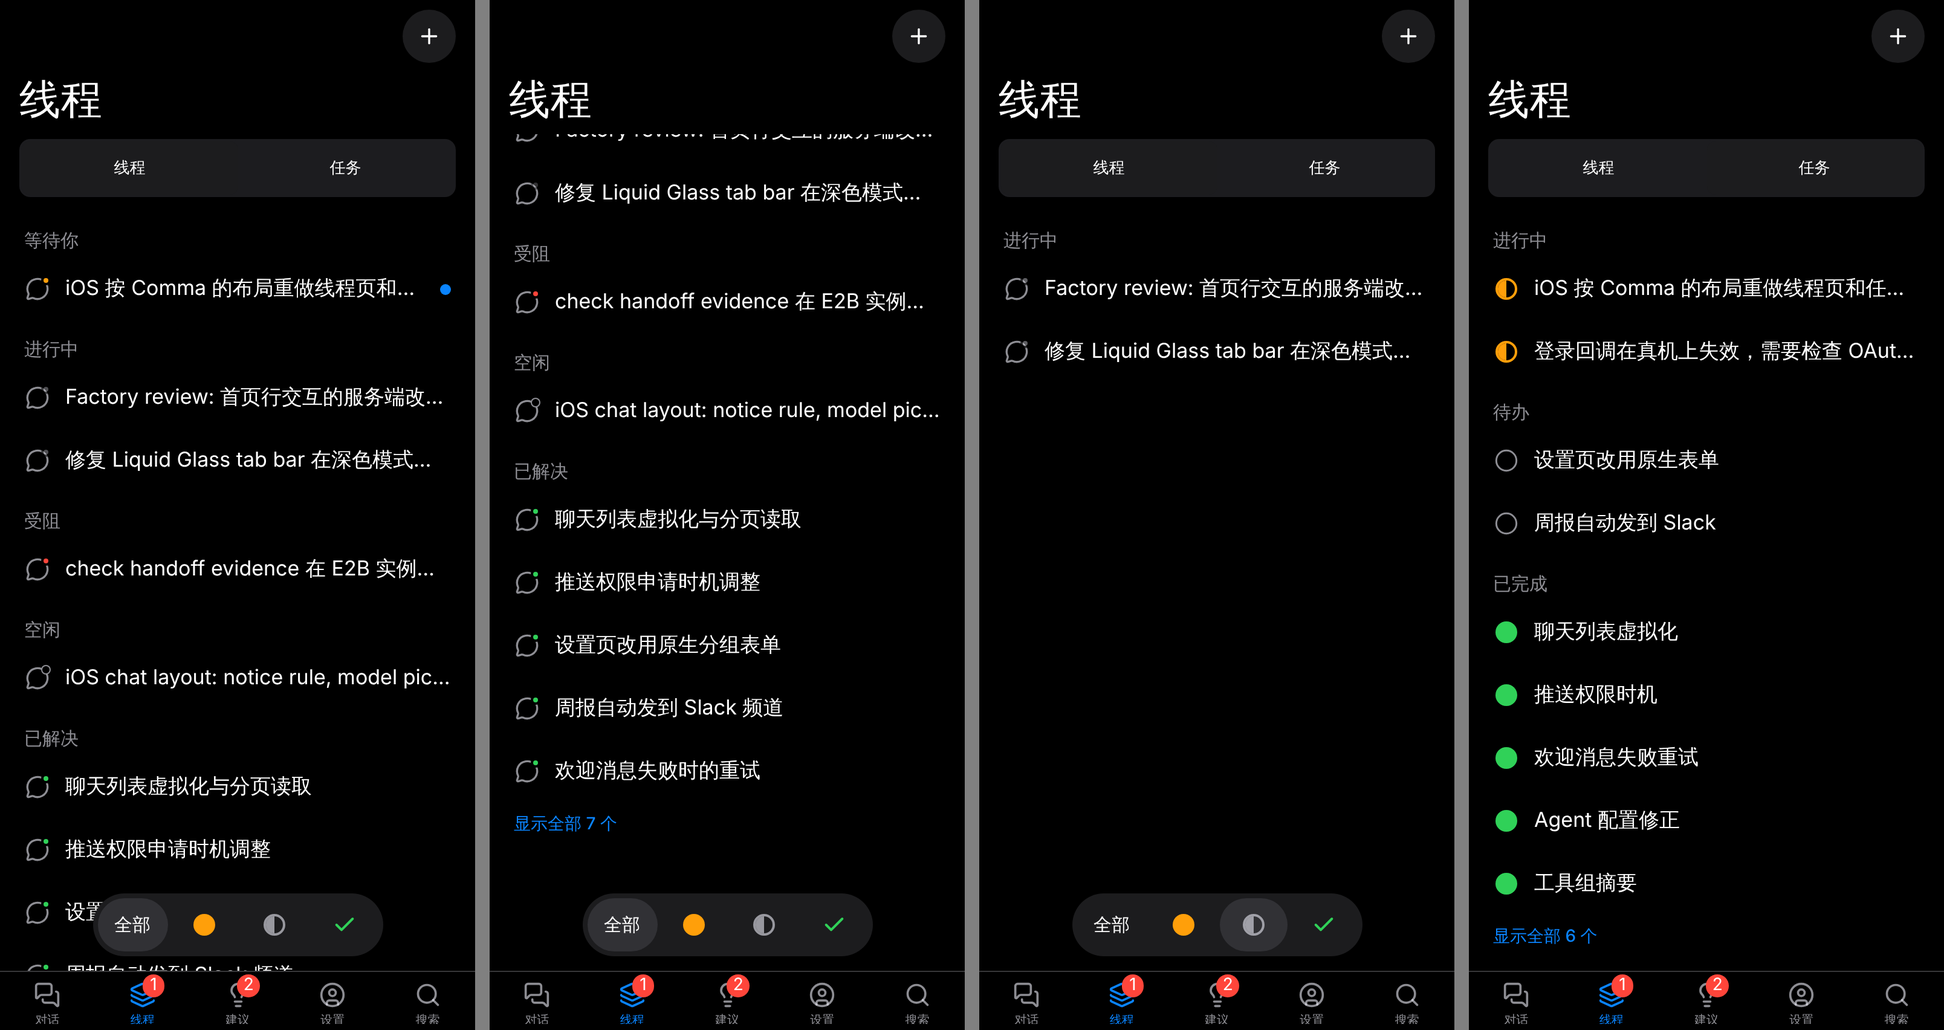
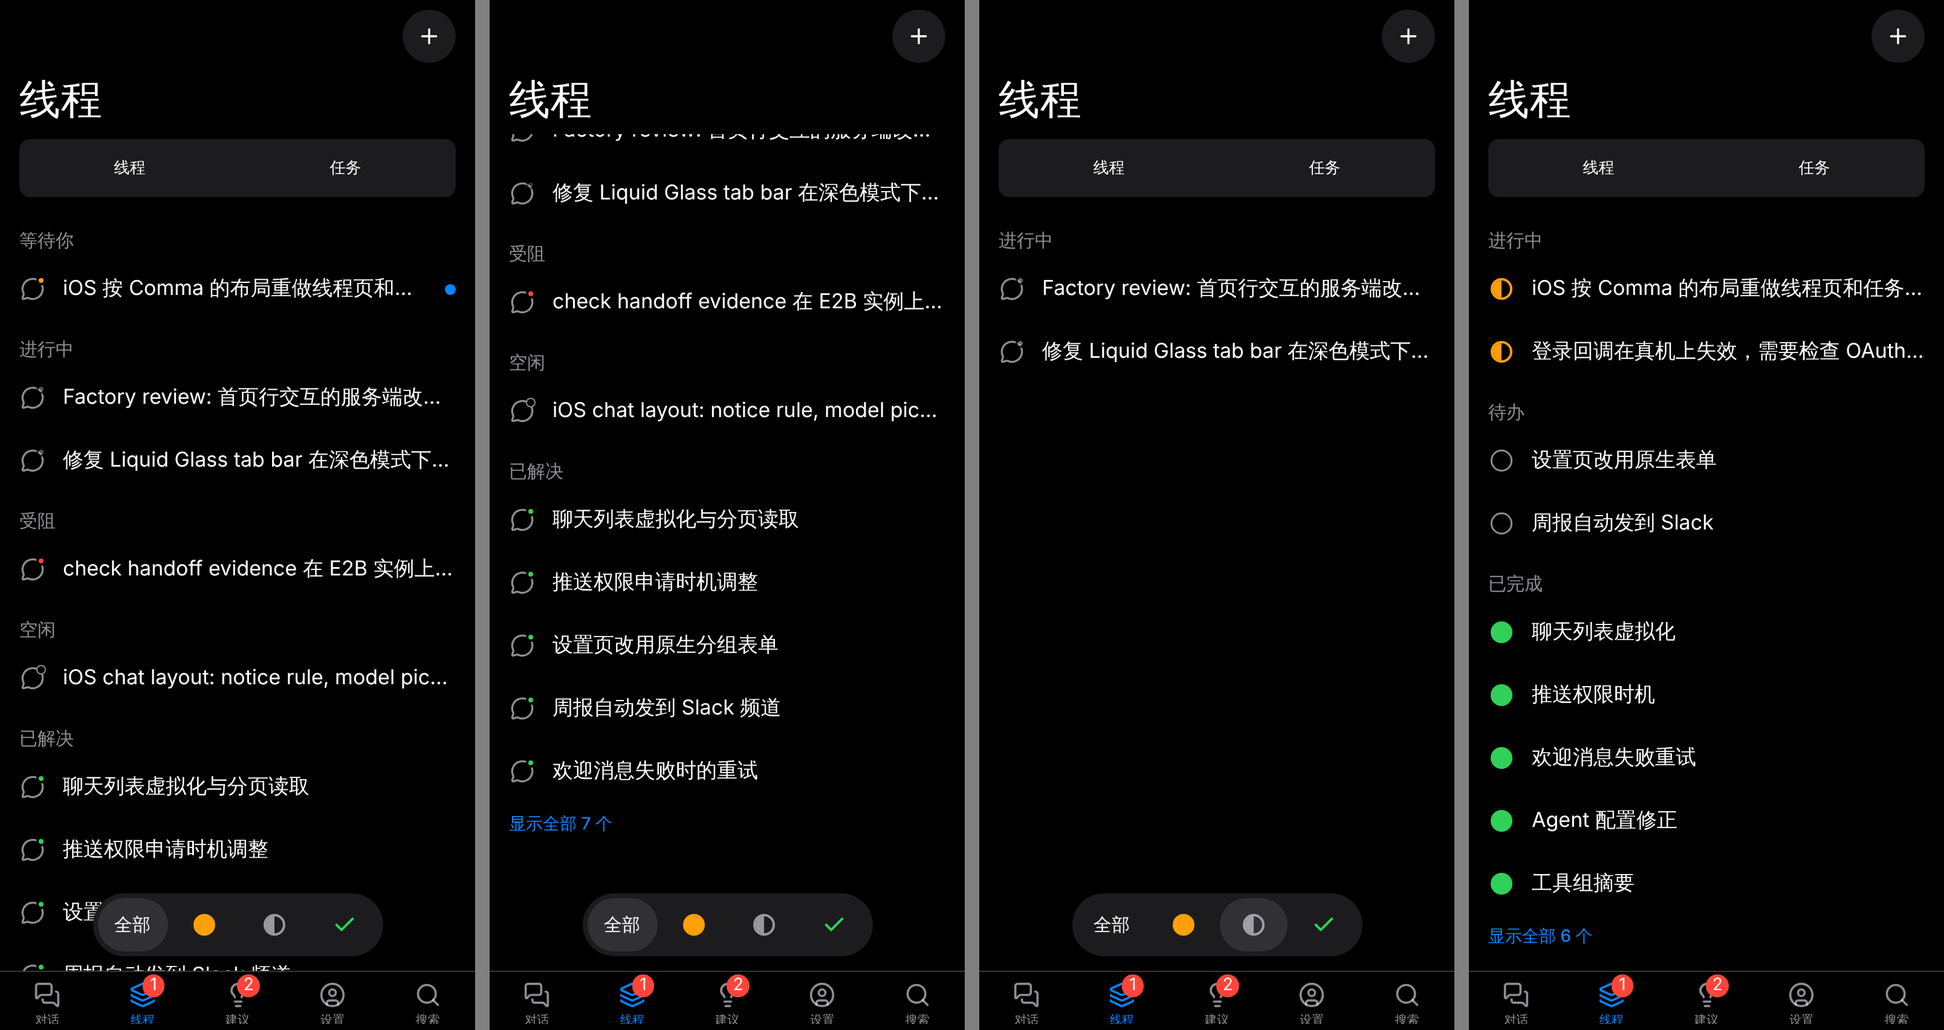
Mobile: standard side margins on every list (#1408)
Plain lists start their content 16 pt in from each edge and inset grouped
lists their cards 20 pt (lib/theme.ts LIST_INSET, GROUP_INSET). A thread
row's and a home row's side margin now sits on a plain View: on iOS the
press is inside a Link, which may not pass a style on, which left the
线程 icons against the screen edge.

Claude-Session: https://claude.ai/code/session_01XDndLPgmtUBPajCU43rJKp

diff --git a/apps/mobile/components/ThreadsScreen.tsx b/apps/mobile/components/ThreadsScreen.tsx
@@ -14,7 +14,7 @@ import { openChat } from '@/lib/navigate'
 import { useLiveApi, useRefresh } from '@/lib/useApi'
 import { botPageLive, threadsLive } from '@/lib/live-keys'
 import { useHome } from '@/lib/home'
-import { colors } from '@/lib/theme'
+import { colors, LIST_INSET, ROW_SURFACE_INSET } from '@/lib/theme'
 import { displayTitle } from '@/lib/display-title'
 import { CLOSED_SHOWN, ListSectionHeader, ShowAllRow } from '@/shared/components/list-section'
 import { ThreadLink } from '@/shared/components/thread-link'
@@ -128,21 +128,25 @@ type Row = { key: string; thread: Thread } | { key: string; title: string } | { 
 export function ThreadRow({ thread, onStopped }: { thread: Thread; onStopped?: () => void }) {
   const waiting = thread.status === 'waiting'
   return (
-    <ThreadLink thread={thread} onStopped={onStopped} style={({ pressed }) => [styles.row, pressed && { backgroundColor: colors.pressed }]}>
-      <View style={styles.rowInner}>
-        <View style={styles.rowIcon}><StatusIcon status={thread.group ? GROUP_ICON[thread.group] : thread.status} size={20} /></View>
-        <Text style={styles.rowTitle} numberOfLines={1}>{displayTitle(thread.name)}</Text>
-        {waiting ? <Dot /> : null}
-      </View>
-    </ThreadLink>
+    // The side margin sits on a plain View: on iOS the row's press is inside a Link, which may not pass a style on.
+    <View style={styles.row}>
+      <ThreadLink thread={thread} onStopped={onStopped} style={({ pressed }) => [styles.rowPress, pressed && { backgroundColor: colors.pressed }]}>
+        <View style={styles.rowInner}>
+          <View style={styles.rowIcon}><StatusIcon status={thread.group ? GROUP_ICON[thread.group] : thread.status} size={20} /></View>
+          <Text style={styles.rowTitle} numberOfLines={1}>{displayTitle(thread.name)}</Text>
+          {waiting ? <Dot /> : null}
+        </View>
+      </ThreadLink>
+    </View>
   )
 }
 
 const styles = StyleSheet.create({
   screen: { flex: 1, backgroundColor: colors.page },
-  segment: { paddingHorizontal: 16, paddingTop: 4, paddingBottom: 12 },
-  row: { marginHorizontal: 10, paddingHorizontal: 10, borderRadius: 10 },
-  rowInner: { flexDirection: 'row', alignItems: 'center', gap: 12, minHeight: 52 },
+  segment: { paddingHorizontal: LIST_INSET, paddingTop: 4, paddingBottom: 12 },
+  row: { marginHorizontal: ROW_SURFACE_INSET },
+  rowPress: { borderRadius: 10 },
+  rowInner: { flexDirection: 'row', alignItems: 'center', gap: 14, minHeight: 52, paddingHorizontal: LIST_INSET - ROW_SURFACE_INSET },
   rowIcon: { width: 22, alignItems: 'center' },
   rowTitle: { flex: 1, minWidth: 0, fontSize: 17, lineHeight: 22 },
   center: { paddingTop: 40, alignItems: 'center' },

diff --git a/apps/mobile/features/home/components/home-chat-row.tsx b/apps/mobile/features/home/components/home-chat-row.tsx
@@ -10,7 +10,7 @@ import { Text } from '@/components/Text'
 import { tap, warn } from '@/lib/haptics'
 import { useReducedMotionPreference } from '@/lib/reduced-motion'
 import { SNAP_BACK } from '@/lib/springs'
-import { colors } from '@/lib/theme'
+import { colors, ROW_SURFACE_INSET } from '@/lib/theme'
 import { armedAt, settleSwipe, SWIPE_REVEAL } from '../model/pin-swipe'
 import type { HomeChat, useHomeChats } from '../model/use-home-chats'
 import { ChatBadge } from './chat-badge'
@@ -81,9 +81,12 @@ export function HomeChatRow({ chat, actions, openKey, onOpen }: { chat: HomeChat
         onHide={() => { close(); void actions.setHidden(chat, true) }} />
       <GestureDetector gesture={gesture}>
         <Reanimated.View ref={drag.ref} collapsable={false} style={[styles.surface, moved]}>
-          <ChatLink chat={chat} actions={actions} ignore={() => swiping.current || drag.active()} style={({ pressed }) => [styles.press, pressed && { backgroundColor: colors.pressed }]}>
-            <ChatRowContent row={chat.row} badge={<ChatBadge chat={chat} />} />
-          </ChatLink>
+          {/* The side margin sits on a plain View: on iOS the press is inside a Link, which may not pass a style on. */}
+          <View style={styles.inset}>
+            <ChatLink chat={chat} actions={actions} ignore={() => swiping.current || drag.active()} style={({ pressed }) => [styles.press, pressed && { backgroundColor: colors.pressed }]}>
+              <ChatRowContent row={chat.row} badge={<ChatBadge chat={chat} />} />
+            </ChatLink>
+          </View>
           {/* An open row: a tap on it closes it rather than opening the chat. */}
           {open ? <Pressable style={StyleSheet.absoluteFill} accessibilityRole="button" accessibilityLabel="收起" onPress={close} /> : null}
         </Reanimated.View>
@@ -119,8 +122,9 @@ function Capsule({ label, color, icon, onPress }: { label: string; color: string
 const styles = StyleSheet.create({
   clip: { overflow: 'hidden' },
   surface: { backgroundColor: colors.page },
-  /** The pressed surface sits 10 pt in from each side, rounded 10 (Comma's list rows). */
-  press: { marginHorizontal: 10, borderRadius: 10 },
+  /** The pressed surface sits 6 pt in from each side, rounded 10; the row's text lands 16 pt in (lib/theme.ts). */
+  inset: { marginHorizontal: ROW_SURFACE_INSET },
+  press: { borderRadius: 10 },
   actions: { position: 'absolute', right: 0, top: 0, bottom: 0, flexDirection: 'row', alignItems: 'center', justifyContent: 'flex-end', gap: 10, paddingRight: 14 },
   capsuleButton: { alignItems: 'center', gap: 4 },
   capsule: { width: 58, height: 38, borderRadius: 19, alignItems: 'center', justifyContent: 'center' },

diff --git a/apps/mobile/features/plugins/screens/plugins-screen.tsx b/apps/mobile/features/plugins/screens/plugins-screen.tsx
@@ -12,7 +12,7 @@ import { api } from '@/lib/api'
 import type { ComposioAccounts, SkillsPage, StoreCatalog } from '@/lib/types'
 import { useApi, useRefresh } from '@/lib/useApi'
 import { openOnWeb } from '@/lib/web'
-import { colors } from '@/lib/theme'
+import { colors, GROUP_INSET } from '@/lib/theme'
 import { ListSectionHeader } from '@/shared/components/list-section'
 
 type Tab = 'apps' | 'skills'
@@ -101,7 +101,7 @@ function Apps({ query, header }: { query: string; header: ReactElement }) {
       contentContainerStyle={styles.list}
       ListEmptyComponent={catalog.loading ? <View style={styles.center}><Spinner /></View>
         : <Text style={styles.note}>{catalog.error ? '应用加载失败' : needle ? `没有找到「${query.trim()}」` : catalog.data?.configured === false ? '应用商店未配置' : '没有应用'}</Text>}
-      renderItem={({ item: row }) => 'title' in row ? <ListSectionHeader title={row.title} /> : (
+      renderItem={({ item: row }) => 'title' in row ? <ListSectionHeader title={row.title} grouped /> : (
         <GroupRow place={row.place} label={`${row.item.name}${connected.has(row.item.id) ? '，已连接' : ''}`} onPress={() => void open(row.item.id)}>
           <AppIcon entry={row.item} />
           <Text style={styles.name} numberOfLines={1}>{row.item.name}</Text>
@@ -193,9 +193,9 @@ function Skills({ query, header }: { query: string; header: ReactElement }) {
 
 const styles = StyleSheet.create({
   screen: { flex: 1, backgroundColor: colors.grouped },
-  header: { paddingHorizontal: 16, paddingTop: 8, paddingBottom: 4 },
+  header: { paddingHorizontal: GROUP_INSET, paddingTop: 8, paddingBottom: 4 },
   list: { paddingBottom: 32 },
-  groupRow: { flexDirection: 'row', alignItems: 'center', gap: 14, minHeight: 52, marginHorizontal: 16, paddingHorizontal: 16, paddingVertical: 8, backgroundColor: colors.surface },
+  groupRow: { flexDirection: 'row', alignItems: 'center', gap: 14, minHeight: 52, marginHorizontal: GROUP_INSET, paddingHorizontal: 16, paddingVertical: 8, backgroundColor: colors.surface },
   groupFirst: { borderTopLeftRadius: 16, borderTopRightRadius: 16 },
   groupLast: { borderBottomLeftRadius: 16, borderBottomRightRadius: 16 },
   hairline: { position: 'absolute', left: 60, right: 0, bottom: 0, height: StyleSheet.hairlineWidth, backgroundColor: colors.separator },

diff --git a/apps/mobile/shared/components/list-section.tsx b/apps/mobile/shared/components/list-section.tsx
@@ -1,15 +1,16 @@
 import { Pressable, StyleSheet, View } from 'react-native'
 import { Text } from '@/components/Text'
 import { tap } from '@/lib/haptics'
-import { colors } from '@/lib/theme'
+import { colors, GROUP_INSET, LIST_INSET } from '@/lib/theme'
 
 /** How many rows a closed section (已解决, 已完成) shows before 显示全部. */
 export const CLOSED_SHOWN = 5
 
 /** A list section's header, as on the home list (Comma designs 01, 13, 15): its name in grey semibold, and a count when given. */
-export function ListSectionHeader({ title, count }: { title: string; count?: number }) {
+/** `grouped` lines it up with the text of an inset grouped list's rows (插件). */
+export function ListSectionHeader({ title, count, grouped = false }: { title: string; count?: number; grouped?: boolean }) {
   return (
-    <View style={styles.header}>
+    <View style={[styles.header, grouped && styles.groupedHeader]}>
       <Text accessibilityRole="header" style={styles.title}>{title}</Text>
       {count !== undefined ? <Text style={styles.count}>{count}</Text> : null}
     </View>
@@ -26,9 +27,10 @@ export function ShowAllRow({ count, onPress }: { count: number; onPress: () => v
 }
 
 const styles = StyleSheet.create({
-  header: { flexDirection: 'row', alignItems: 'center', gap: 6, paddingHorizontal: 20, paddingTop: 14, paddingBottom: 4 },
+  header: { flexDirection: 'row', alignItems: 'center', gap: 6, paddingHorizontal: LIST_INSET, paddingTop: 14, paddingBottom: 4 },
+  groupedHeader: { paddingHorizontal: GROUP_INSET + 16, paddingTop: 18, paddingBottom: 6 },
   title: { fontSize: 15, lineHeight: 20, fontWeight: '600', color: colors.secondary },
   count: { fontSize: 15, lineHeight: 20, color: colors.tertiary },
-  all: { alignSelf: 'flex-start', paddingHorizontal: 20, paddingVertical: 8 },
+  all: { alignSelf: 'flex-start', paddingHorizontal: LIST_INSET, paddingVertical: 8 },
   allText: { fontSize: 14, lineHeight: 19, fontWeight: '500', color: colors.accent },
 })

diff --git a/apps/mobile/app/(tabs)/suggestions/index.tsx b/apps/mobile/app/(tabs)/suggestions/index.tsx
@@ -10,7 +10,7 @@ import { shortWhen } from '@/lib/clock'
 import type { Suggestion, Suggestions } from '@/lib/types'
 import { openChat } from '@/lib/navigate'
 import { useApi, useRefresh } from '@/lib/useApi'
-import { colors } from '@/lib/theme'
+import { colors, LIST_INSET, ROW_SURFACE_INSET } from '@/lib/theme'
 import { ListSectionHeader } from '@/shared/components/list-section'
 
 const VERB: Record<string, string> = { reply: '回复', review: '审阅', handle: '处理', read: '查看' }
@@ -77,13 +77,13 @@ const styles = StyleSheet.create({
   screen: { flex: 1, backgroundColor: colors.page },
   center: { paddingTop: 40, alignItems: 'center' },
   note: { textAlign: 'center', color: colors.secondary, marginTop: 40, fontSize: 15 },
-  cards: { paddingHorizontal: 16, paddingTop: 4, paddingBottom: 4, gap: 10 },
+  cards: { paddingHorizontal: LIST_INSET, paddingTop: 4, paddingBottom: 4, gap: 10 },
   card: { width: 168, gap: 10, padding: 12, borderRadius: 16, borderCurve: 'continuous', backgroundColor: colors.bubble },
   cardHead: { flexDirection: 'row', alignItems: 'center', gap: 8 },
   cardName: { flexShrink: 1, fontSize: 15, fontWeight: '600' },
   cardCount: { fontSize: 13, color: colors.secondary },
   badge: { width: 26, height: 26, borderRadius: 7, borderCurve: 'continuous', backgroundColor: colors.surface, alignItems: 'center', justifyContent: 'center' },
-  row: { flexDirection: 'row', alignItems: 'center', gap: 12, marginHorizontal: 10, paddingHorizontal: 10, paddingVertical: 9, borderRadius: 10 },
+  row: { flexDirection: 'row', alignItems: 'center', gap: 12, marginHorizontal: ROW_SURFACE_INSET, paddingHorizontal: LIST_INSET - ROW_SURFACE_INSET, paddingVertical: 9, borderRadius: 10 },
   body: { flex: 1, minWidth: 0, gap: 2 },
   title: { fontSize: 17, lineHeight: 22 },
   verb: { fontWeight: '600' },

diff --git a/apps/mobile/features/tasks/components/task-list.tsx b/apps/mobile/features/tasks/components/task-list.tsx
@@ -12,7 +12,7 @@ import { useLiveApi, useRefresh } from '@/lib/useApi'
 import { tasksLive } from '@/lib/live-keys'
 import { useHome } from '@/lib/home'
 import { openOnWeb } from '@/lib/web'
-import { colors } from '@/lib/theme'
+import { colors, LIST_INSET, ROW_SURFACE_INSET } from '@/lib/theme'
 import { CLOSED_SHOWN, ListSectionHeader, ShowAllRow } from '@/shared/components/list-section'
 
 /** The web's task statuses (lib/issue-meta.ts) in board order, with their names; the closed ones last. */
@@ -98,8 +98,8 @@ export const listStyles = StyleSheet.create({
 })
 
 const styles = StyleSheet.create({
-  /** One line per row (Alex 2026-11-06): 52 pt tall, the pressed surface 10 pt in from each side. */
-  row: { flexDirection: 'row', alignItems: 'center', gap: 12, minHeight: 52, marginHorizontal: 10, paddingHorizontal: 10, borderRadius: 10 },
+  /** One line per row (Alex 2026-11-06): 52 pt tall, text 16 pt in from each edge (lib/theme.ts LIST_INSET). */
+  row: { flexDirection: 'row', alignItems: 'center', gap: 14, minHeight: 52, marginHorizontal: ROW_SURFACE_INSET, paddingHorizontal: LIST_INSET - ROW_SURFACE_INSET, borderRadius: 10 },
   icon: { width: 22, alignItems: 'center' },
   mark: { width: 18, height: 18, borderRadius: 9 },
   half: { borderWidth: 2, borderColor: colors.orange, overflow: 'hidden', flexDirection: 'row' },

diff --git a/apps/mobile/components/settings.tsx b/apps/mobile/components/settings.tsx
@@ -11,7 +11,7 @@ import { Symbol } from '@/components/Symbol'
 import { Text } from '@/components/Text'
 import { API_URL } from '@/lib/config'
 import { NavBar, underBar } from '@/components/NavBar'
-import { colors } from '@/lib/theme'
+import { colors, GROUP_INSET } from '@/lib/theme'
 
 /** The person's photo, or their initials on green when they have none. */
 export function Avatar({ name, image, size }: { name: string; image: string | null; size: number }) {
@@ -39,7 +39,7 @@ export function SettingsPage({ title, children, footer }: { title: string; child
   return (
     <View style={{ flex: 1, backgroundColor: colors.grouped }}>
       <NavBar back={() => router.canGoBack() ? router.back() : router.replace('/settings')} title={title} />
-      <ScrollView {...underBar} keyboardShouldPersistTaps="handled" contentContainerStyle={{ padding: 16, paddingBottom: footer ? 16 : insets.bottom + 24 }}>
+      <ScrollView {...underBar} keyboardShouldPersistTaps="handled" contentContainerStyle={{ paddingHorizontal: GROUP_INSET, paddingTop: 16, paddingBottom: footer ? 16 : insets.bottom + 24 }}>
         <ReadNotice error={error} hasData={Boolean(data)} label="设置" onRetry={reload} />
         {!data && loading ? <View style={{ padding: 24, alignItems: 'center' }}><Spinner /></View> : null}
         {data ? children : null}

diff --git a/apps/mobile/components/ChatList.tsx b/apps/mobile/components/ChatList.tsx
@@ -9,7 +9,7 @@ import { useHome } from '@/lib/home'
 import type { GroupSummary, HomeBot } from '@/lib/types'
 import { useLiveApi } from '@/lib/useApi'
 import { listRef } from '@/lib/live'
-import { colors } from '@/lib/theme'
+import { colors, LIST_INSET, ROW_SURFACE_INSET } from '@/lib/theme'
 
 export type ChatRow = { kind: 'bot'; bot: HomeBot; at: string } | { kind: 'group'; group: GroupSummary; at: string }
 
@@ -74,9 +74,9 @@ export function ChatRowContent({ row, badge }: { row: ChatRow; badge?: ReactNode
 }
 
 const styles = StyleSheet.create({
-  /** The pressed surface sits 10 pt in from each side, rounded 10 (Comma's list rows). */
-  press: { marginHorizontal: 10, borderRadius: 10 },
-  row: { flexDirection: 'row', alignItems: 'center', gap: 12, paddingHorizontal: 10, paddingVertical: 9 },
+  /** The pressed surface sits 6 pt in from each side, rounded 10; the row's text lands 16 pt in (lib/theme.ts). */
+  press: { marginHorizontal: ROW_SURFACE_INSET, borderRadius: 10 },
+  row: { flexDirection: 'row', alignItems: 'center', gap: 12, paddingHorizontal: LIST_INSET - ROW_SURFACE_INSET, paddingVertical: 9 },
   body: { flex: 1, minWidth: 0, gap: 2 },
   top: { flexDirection: 'row', alignItems: 'center', gap: 8 },
   name: { flex: 1, fontSize: 17, lineHeight: 22, fontWeight: '600' },

diff --git a/apps/mobile/features/home/screens/hidden-chats-screen.tsx b/apps/mobile/features/home/screens/hidden-chats-screen.tsx
@@ -3,7 +3,7 @@ import { useRouter } from 'expo-router'
 import { ChatRowContent } from '@/components/ChatList'
 import { NavBar, underBar } from '@/components/NavBar'
 import { Text } from '@/components/Text'
-import { colors } from '@/lib/theme'
+import { colors, LIST_INSET, ROW_SURFACE_INSET } from '@/lib/theme'
 import { chatHref } from '../components/chat-href'
 import { useHomeChats } from '../model/use-home-chats'
 
@@ -39,8 +39,8 @@ export function HiddenChatsScreen() {
 const styles = StyleSheet.create({
   screen: { flex: 1, backgroundColor: colors.page },
   row: { flexDirection: 'row', alignItems: 'center' },
-  open: { flex: 1, minWidth: 0, marginLeft: 10, borderRadius: 10 },
-  show: { height: 32, paddingHorizontal: 12, marginRight: 16, borderRadius: 16, backgroundColor: colors.bubble, alignItems: 'center', justifyContent: 'center' },
+  open: { flex: 1, minWidth: 0, marginLeft: ROW_SURFACE_INSET, borderRadius: 10 },
+  show: { height: 32, paddingHorizontal: 12, marginRight: LIST_INSET, borderRadius: 16, backgroundColor: colors.bubble, alignItems: 'center', justifyContent: 'center' },
   showText: { fontSize: 14, fontWeight: '600', color: colors.accent },
   none: { paddingTop: 40, textAlign: 'center', fontSize: 15, color: colors.secondary },
 })

diff --git a/apps/mobile/features/home/screens/home-screen.tsx b/apps/mobile/features/home/screens/home-screen.tsx
@@ -11,7 +11,7 @@ import { Text } from '@/components/Text'
 import { useWorkspaces } from '@/features/workspace/model/use-workspaces'
 import { restartToUpdate, useUpdateReady } from '@/lib/updates'
 import { prefetch, useRefresh } from '@/lib/useApi'
-import { colors } from '@/lib/theme'
+import { colors, LIST_INSET } from '@/lib/theme'
 import { ChatDragProvider } from '../components/chat-drag'
 import { HomeChatRow } from '../components/home-chat-row'
 import { PinnedGrid } from '../components/pinned-grid'
@@ -111,7 +111,7 @@ const styles = StyleSheet.create({
   center: { paddingTop: 40, alignItems: 'center' },
   workspace: { flexDirection: 'row', alignItems: 'center', gap: 4, height: 40, paddingHorizontal: 14, borderRadius: 20, backgroundColor: colors.bubble, maxWidth: 200 },
   workspaceName: { fontSize: 17, fontWeight: '600', color: colors.ink, flexShrink: 1 },
-  hidden: { flexDirection: 'row', alignItems: 'center', gap: 8, minHeight: 44, paddingHorizontal: 20, marginTop: 12 },
+  hidden: { flexDirection: 'row', alignItems: 'center', gap: 8, minHeight: 44, paddingHorizontal: LIST_INSET, marginTop: 12 },
   hiddenText: { flex: 1, fontSize: 15, color: colors.secondary },
   hiddenCount: { fontSize: 15, color: colors.tertiary },
 })

diff --git a/apps/mobile/features/home/components/section-header.tsx b/apps/mobile/features/home/components/section-header.tsx
@@ -2,7 +2,7 @@ import { Pressable, StyleSheet, View } from 'react-native'
 import { ChevronRight } from 'lucide-react-native'
 import { Symbol } from '@/components/Symbol'
 import { Text } from '@/components/Text'
-import { colors } from '@/lib/theme'
+import { colors, LIST_INSET } from '@/lib/theme'
 import type { HomeItem } from '../model/home-list'
 
 /** A section's header: its name (Comma design 01); a tap folds it, and a folded section shows a chevron and its unread count. */
@@ -21,7 +21,7 @@ export function SectionHeader({ section, onToggle }: { section: Extract<HomeItem
 }
 
 const styles = StyleSheet.create({
-  header: { minHeight: 36, flexDirection: 'row', alignItems: 'center', gap: 6, paddingLeft: 20, paddingRight: 20, paddingTop: 14, paddingBottom: 4 },
+  header: { minHeight: 36, flexDirection: 'row', alignItems: 'center', gap: 6, paddingLeft: LIST_INSET, paddingRight: LIST_INSET, paddingTop: 14, paddingBottom: 4 },
   title: { fontSize: 15, lineHeight: 20, fontWeight: '600', color: colors.secondary },
   fill: { flex: 1 },
   unread: { minWidth: 20, height: 20, borderRadius: 10, paddingHorizontal: 6, backgroundColor: colors.accent, alignItems: 'center', justifyContent: 'center' },

diff --git a/apps/mobile/app/(tabs)/settings/index.tsx b/apps/mobile/app/(tabs)/settings/index.tsx
@@ -17,7 +17,7 @@ import { authClient } from '@/lib/auth'
 import { clearApiCache } from '@/lib/useApi'
 import { useSettings } from '@/lib/settings'
 import { versionLabel } from '@/lib/updates'
-import { colors } from '@/lib/theme'
+import { colors, GROUP_INSET } from '@/lib/theme'
 
 /** A row's icon (Comma design 18): a white glyph on a colored rounded square, as in the system Settings app. */
 const icon = (name: SymbolName, Icon: typeof Bell, background: string) => (
@@ -63,7 +63,7 @@ export default function SettingsScreen() {
           <CardButton label="重试" onPress={() => void reload()} />
         </View>
       ) : !data ? <View style={{ paddingTop: 40, alignItems: 'center' }}><Spinner /></View> : (
-        <ScrollView {...underBar} contentContainerStyle={{ padding: 16, paddingBottom: insets.bottom + 24 }}>
+        <ScrollView {...underBar} contentContainerStyle={{ paddingHorizontal: GROUP_INSET, paddingTop: 16, paddingBottom: insets.bottom + 24 }}>
           <ReadNotice error={error} hasData label="设置" onRetry={reload} />
           <PushRow proactive={data.preferences.proactive} />
           <PreferenceSaveNotice />
